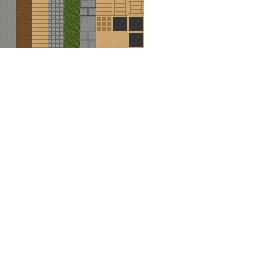
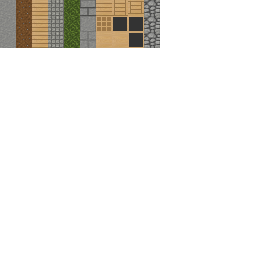
shift+mouse wheel change slected object material

Changed region(s): [[0.5625, 0.0, 0.625, 0.1875]]

diff --git a/src/event.c b/src/event.c
@@ -28,31 +28,22 @@ void event(const SDL_Event *e, void *data)
 			ctx->run = 1;
 		} else if (e->key.keysym.sym == SDLK_1) {
 			ctx->inv->slots[ctx->tool].mat = 0;
-			goto print_tool;
 		} else if (e->key.keysym.sym == SDLK_2) {
 			ctx->inv->slots[ctx->tool].mat = 1;
-			goto print_tool;
 		} else if (e->key.keysym.sym == SDLK_3) {
 			ctx->inv->slots[ctx->tool].mat = 2;
-			goto print_tool;
 		} else if (e->key.keysym.sym == SDLK_4) {
 			ctx->inv->slots[ctx->tool].mat = 3;
-			goto print_tool;
 		} else if (e->key.keysym.sym == SDLK_5) {
 			ctx->inv->slots[ctx->tool].mat = 4;
-			goto print_tool;
 		} else if (e->key.keysym.sym == SDLK_6) {
 			ctx->inv->slots[ctx->tool].mat = 5;
-			goto print_tool;
 		} else if (e->key.keysym.sym == SDLK_7) {
 			ctx->inv->slots[ctx->tool].mat = 6;
-			goto print_tool;
 		} else if (e->key.keysym.sym == SDLK_8) {
 			ctx->inv->slots[ctx->tool].mat = 7;
-			goto print_tool;
 		} else if (e->key.keysym.sym == SDLK_9) {
 			ctx->inv->slots[ctx->tool].mat = 8;
-			goto print_tool;
 		} else if (e->key.keysym.sym == SDLK_q) {
 			if (ctx->inv->slots[ctx->tool].num > 0) {
 				struct drop *d = drop(ctx,
@@ -153,21 +144,29 @@ void event(const SDL_Event *e, void *data)
 			ctx->pick = 0;
 		}
 	} else if (e->type == SDL_MOUSEWHEEL) {
+		if (ctx->move.y0) {
+		if (e->wheel.y > 0) {
+			if (ctx->inv->slots[ctx->tool].mat == 0)
+				ctx->inv->slots[ctx->tool].mat = MAT_COUNT;
+			--ctx->inv->slots[ctx->tool].mat;
+		} else if (e->wheel.y < 0) {
+			++ctx->inv->slots[ctx->tool].mat;
+			if (ctx->inv->slots[ctx->tool].mat == MAT_COUNT)
+				ctx->inv->slots[ctx->tool].mat = 0;
+			if (ctx->tool == ctx->inv->size)
+				ctx->tool = 0;
+		}
+		} else {
 		if (e->wheel.y > 0) {
 			if (ctx->tool == 0)
 				ctx->tool = ctx->inv->size;
 			--ctx->tool;
-			goto print_tool;
 		} else if (e->wheel.y < 0) {
 			++ctx->tool;
 			if (ctx->tool == ctx->inv->size)
 				ctx->tool = 0;
-			goto print_tool;
 		}
-	}
-	return;
-
-print_tool:
+		}
 			if (ctx->inv->slots[ctx->tool].num)
 				printf("Holding %d: %s %s %d\n", ctx->tool,
 						mat_names[ctx->inv->slots[ctx->tool].mat],
@@ -175,6 +174,7 @@ print_tool:
 						ctx->inv->slots[ctx->tool].num);
 			else
 				printf("Holding %d: nothing\n", ctx->tool);
-
+	}
+	return;
 }
 

diff --git a/src/context.c b/src/context.c
@@ -52,9 +52,9 @@ const char *obj_names[] = {
 };
 
 const char *mat_names[] = {
-	"limestone", "dirt", "wood", "cobble", "grass", "stonebrick",
-	"workbench", "crate", "pipe",
-	"mat09", "mat0A", "mat0B", "mat0C", "mat0D", "mat0E", "mat0F",
+	"limestone", "dirt", "wood", "tile", "grass", "stonebrick",
+	"workbench", "crate", "pipe", "cobble",
+	"mat0A", "mat0B", "mat0C", "mat0D", "mat0E", "mat0F",
 	"mat10", "mat11", "mat12", "mat13", "mat14", "mat15", "mat16", "mat17",
 	"mat18", "mat19", "mat1A", "mat1B", "mat1C", "mat1D", "mat1E", "mat1F",
 	"mat20", "mat21", "mat22", "mat23", "mat24", "mat25", "mat26", "mat27",

diff --git a/src/chunk.h b/src/chunk.h
@@ -41,12 +41,13 @@ enum {
 	MAT_LIMESTONE,
 	MAT_DIRT,
 	MAT_WOOD,
-	MAT_COBBLE,
+	MAT_TILE,
 	MAT_GRASS,
 	MAT_STONEBRICK,
 	MAT_WORKBENCH,
 	MAT_CRATE,
 	MAT_PIPE,
+	MAT_COBBLE,
 	MAT_COUNT,
 };
 
